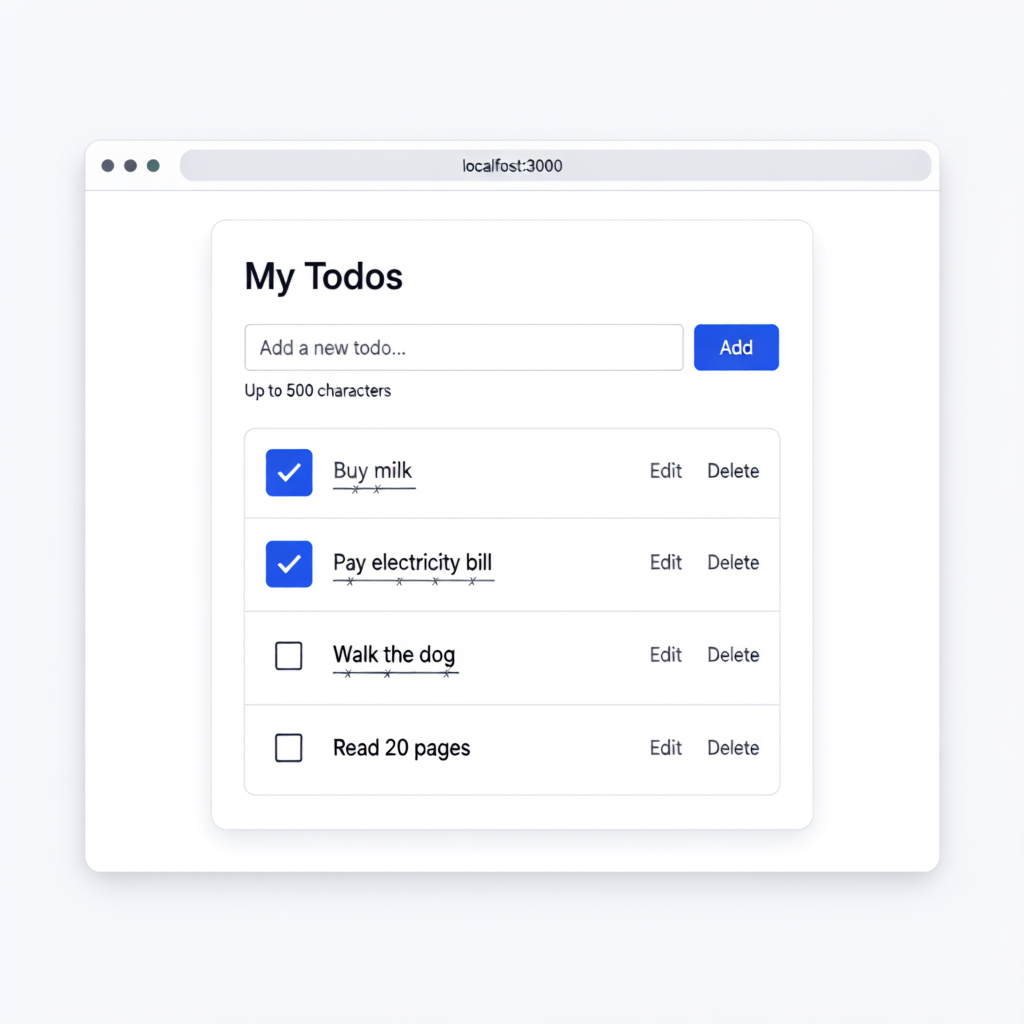
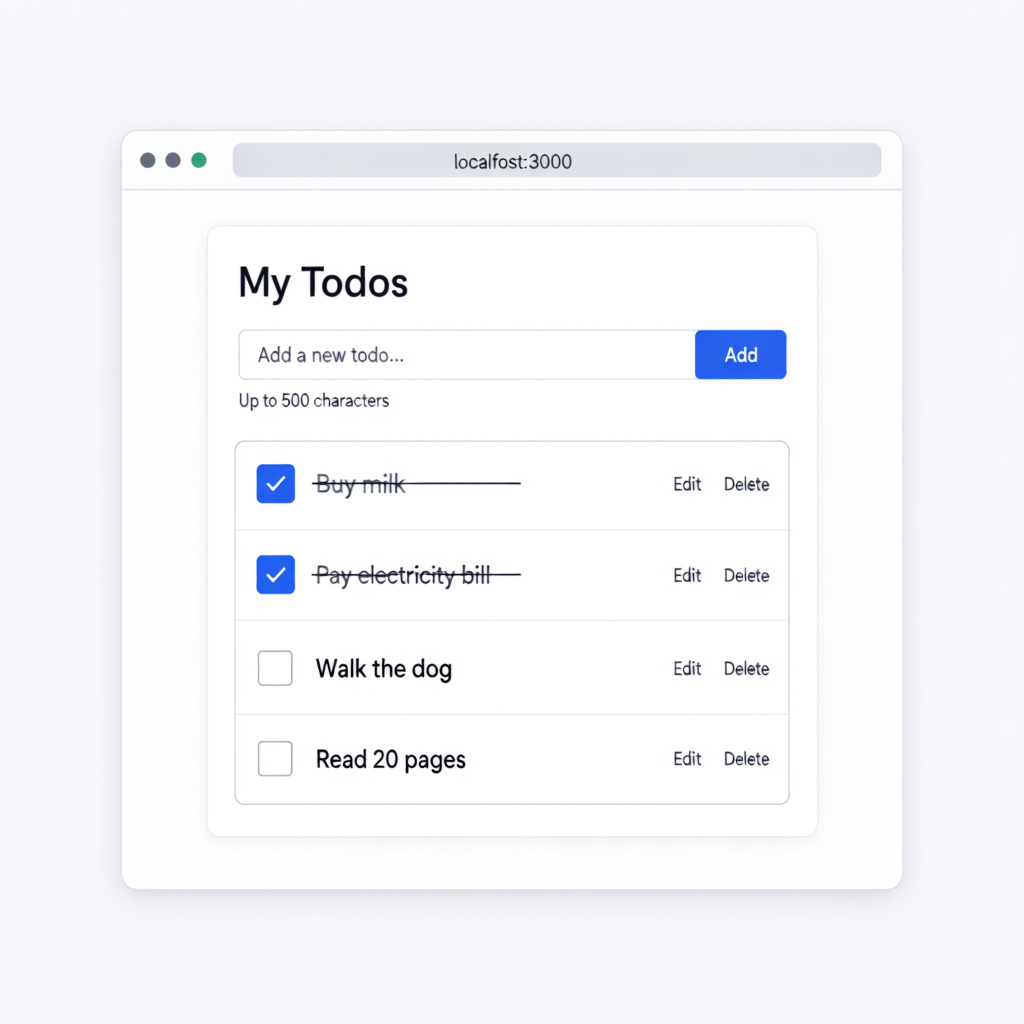
designs: regenerate 3 mockups with stricter captions

diff --git a/__log__/2026-10-04-ui-mockups-rework.md b/__log__/2026-10-04-ui-mockups-rework.md
@@ -1,0 +1,7 @@
+```json
+{"task":"UI mockups rework — 3 stricter captions","status":"done","date":"2026-10-04"}
+```
+
+- Regenerated `01-list-populated.png`, `04-edit-row.png`, `06-missing-todo.png` after visual check of the first pass; all three rendered ok on first attempt with the same ming-image pipeline.
+- Defects fixed via stricter captions: strikethrough conflict (not-done row rendered struck text despite unchecked box), edit-row garbling (hallucinated second row in edit mode with garbled buttons/text), phantom row (the "todo does not exist" notice rendered as its own fifth row with a checkbox).
+- Caption changes: done rows now say "checked blue box with white tick, single thin strikethrough line crossing the middle of the text"; not-done rows say "empty unchecked box, solid dark text with no strikethrough line on this row"; 04 states exactly four rows with exactly one input row and drops any error surface; 06 states the notice lives inside row 4 with no checkbox and no fifth row. See `designs/mockups/prompts/`.
